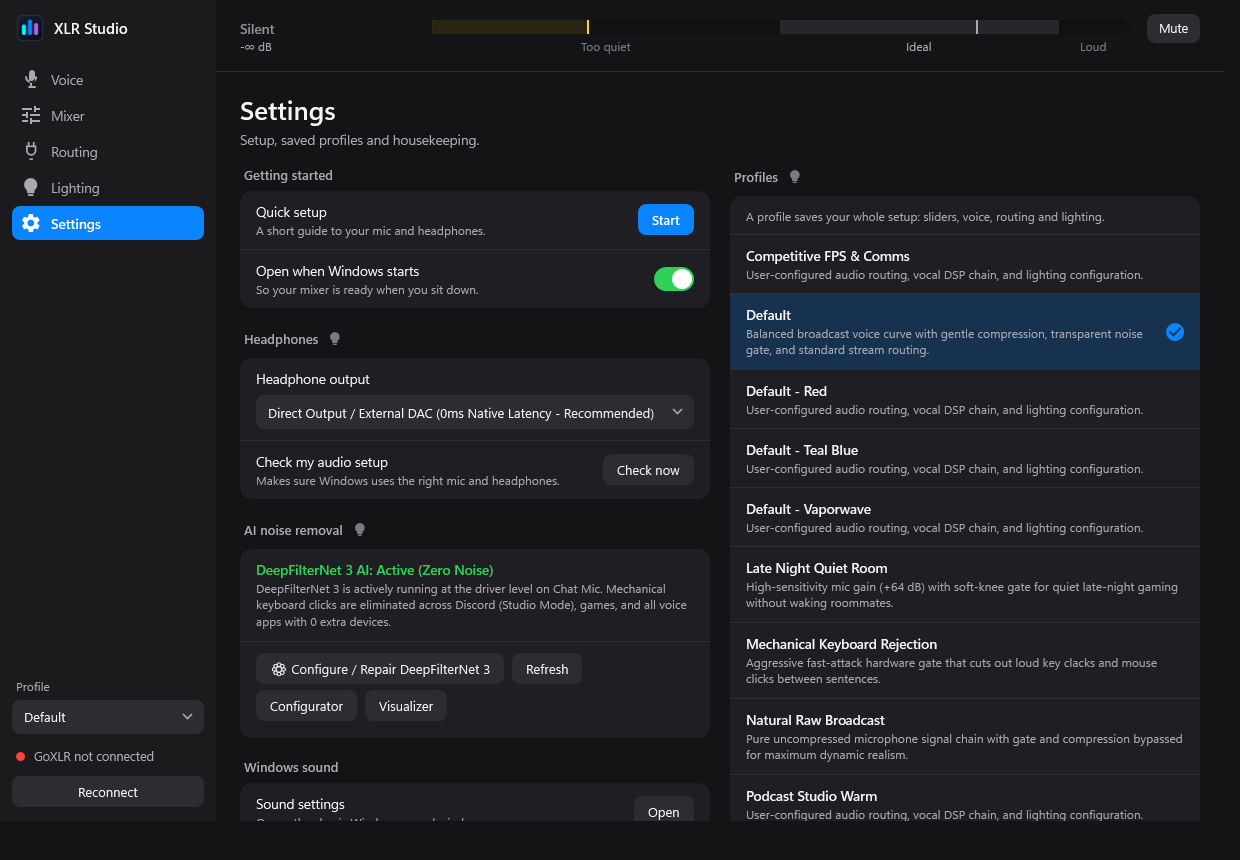
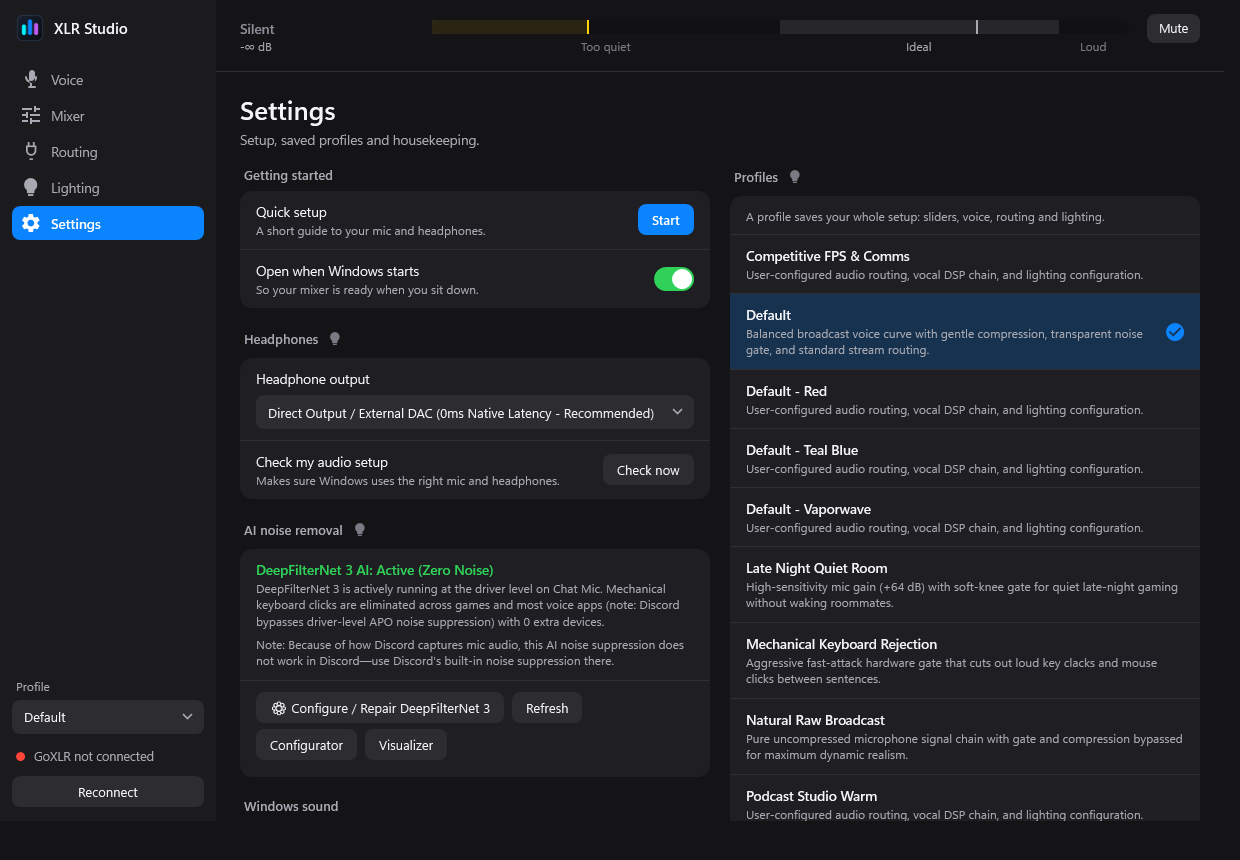
Add Discord AI noise suppression limitation note in app and docs

diff --git a/src/ProjectXLR/Views/VoicePage.xaml b/src/ProjectXLR/Views/VoicePage.xaml
@@ -127,11 +127,11 @@
                                     <c:AdaptiveRow>
                                         <StackPanel>
                                             <TextBlock Text="AI noise removal" Style="{StaticResource RowTitle}" />
-                                            <TextBlock Text="Removes keyboard clicks from what Discord and games hear." Style="{StaticResource RowCaption}" />
+                                            <TextBlock Text="Removes keyboard clicks from what games and apps hear." Style="{StaticResource RowCaption}" />
                                             <TextBlock Text="{Binding DeepFilterNetStatusTextShort}" Style="{StaticResource RowCaption}" Foreground="{Binding DeepFilterNetBadgeColor}" />
                                         </StackPanel>
                                         <CheckBox IsChecked="{Binding DeepFilterNetToggleEnabled, Mode=TwoWay}" IsEnabled="{Binding IsDeepFilterNetInstalled}" Style="{StaticResource Switch}"
-                                                  ToolTip="Uses DeepFilterNet 3, an open-source AI noise filter, on what Discord and games hear from Chat Mic." />
+                                                  ToolTip="Uses DeepFilterNet 3, an open-source AI noise filter, on what games and apps hear from Chat Mic." />
                                     </c:AdaptiveRow>
                                     <Button Content="{Binding DeepFilterNetActionButtonText}" Click="InstallOrRepairDeepFilterNet_Click" Style="{StaticResource Btn}" HorizontalAlignment="Left" Margin="0,11,0,0"
                                             Visibility="{Binding IsDeepFilterNetInstalled, Converter={StaticResource InverseBoolToVis}}" />
@@ -143,6 +143,7 @@
                                             <RadioButton Content="Strongest" GroupName="AiStrength" IsChecked="{Binding IsDenoiseAggressive, Mode=TwoWay}" Style="{StaticResource Segment}" ToolTip="Removes the most. Best for loud mechanical keyboards." />
                                         </UniformGrid>
                                     </Border>
+                                    <TextBlock Text="Note: Because of how Discord captures microphone audio, this AI noise suppression does not apply to Discord. Use Discord's built-in noise suppression (Krisp) there." Style="{StaticResource RowCaption}" Margin="0,8,0,0" />
                                 </StackPanel>
                             </Border>
                             <Border Style="{StaticResource RowLast}">

diff --git a/src/ProjectXLR/Views/SettingsPage.xaml b/src/ProjectXLR/Views/SettingsPage.xaml
@@ -171,6 +171,7 @@
                                 <StackPanel>
                                     <TextBlock Text="{Binding DeepFilterNetTitle}" Style="{StaticResource RowTitle}" FontWeight="SemiBold" Foreground="{Binding DeepFilterNetBadgeColor}" />
                                     <TextBlock Text="{Binding DeepFilterNetMessage}" Style="{StaticResource RowCaption}" />
+                                    <TextBlock Text="Note: Because of how Discord captures mic audio, this AI noise suppression does not work in Discord—use Discord's built-in noise suppression there." Style="{StaticResource RowCaption}" Margin="0,6,0,0" />
                                 </StackPanel>
                             </Border>
                             <Border Style="{StaticResource RowLast}">

diff --git a/src/ProjectXLR/Hardware/DeepFilterNetService.cs b/src/ProjectXLR/Hardware/DeepFilterNetService.cs
@@ -77,7 +77,7 @@ public sealed class DeepFilterNetService
         {
             CurrentStatus = DeepFilterNetStatus.NotInstalled;
             StatusTitle = "DeepFilterNet 3 AI: Not Installed";
-            StatusMessage = "Install Equalizer APO + DeepFilterNet 3 to eliminate mechanical keyboard clatter in Discord Studio Mode and games with 0 extra audio devices.";
+            StatusMessage = "Install Equalizer APO + DeepFilterNet 3 to eliminate mechanical keyboard clatter in games and voice apps (note: does not apply to Discord) with 0 extra audio devices.";
             StatusBadgeColor = "#8E8E98"; // Gray
         }
         else if (!hooked)
@@ -105,7 +105,7 @@ public sealed class DeepFilterNetService
         {
             CurrentStatus = DeepFilterNetStatus.Active;
             StatusTitle = "DeepFilterNet 3 AI: Active (Zero Noise)";
-            StatusMessage = "DeepFilterNet 3 is actively running at the driver level on Chat Mic. Mechanical keyboard clicks are eliminated across Discord (Studio Mode), games, and all voice apps with 0 extra devices.";
+            StatusMessage = "DeepFilterNet 3 is actively running at the driver level on Chat Mic. Mechanical keyboard clicks are eliminated across games and most voice apps (note: Discord bypasses driver-level APO noise suppression) with 0 extra devices.";
             StatusBadgeColor = "#30D158"; // Green
         }
 
@@ -248,7 +248,7 @@ public sealed class DeepFilterNetService
         var lines = new[]
         {
             "# Project XLR - DeepFilterNet 3 Neural AI Noise Suppression",
-            "# Eliminates mechanical keyboard clatter for Discord Studio Mode & games",
+            "# Eliminates mechanical keyboard clatter for games & voice apps",
             "Device: Chat Mic",
             $"{prefix}VSTPlugin: Library \"{VstPluginInstalledFile}\" ChunkData \"{chunk}\""
         };
@@ -329,7 +329,7 @@ if (-not (Test-Path '{EqualizerApoConfigDir}')) {{
 
 $config = @(
     '# Project XLR - DeepFilterNet 3 Neural AI Noise Suppression',
-    '# Eliminates mechanical keyboard clatter for Discord Studio Mode & games',
+    '# Eliminates mechanical keyboard clatter for games & voice apps',
     'Device: Chat Mic',
     'VSTPlugin: Library ""{VstPluginInstalledFile}"" ChunkData ""{ChunkBalanced}""'
 )

diff --git a/README.md b/README.md
@@ -62,7 +62,9 @@ Pushing a `v*` tag triggers [release.yml](.github/workflows/release.yml) to run 
 
 ## Optional: DeepFilterNet 3 AI noise removal
 
-Project XLR can hook **DeepFilterNet 3** directly onto `Chat Mic` using **Equalizer APO** and the **Alt-Denoiser** VST plugin—zero extra virtual audio cables or extra devices in Discord/games. Those third-party binaries aren't committed to git due to size, so if you want it:
+Project XLR can hook **DeepFilterNet 3** directly onto `Chat Mic` using **Equalizer APO** and the **Alt-Denoiser** VST plugin—zero extra virtual audio cables or extra devices in games and apps. Those third-party binaries aren't committed to git due to size, so if you want it:
+
+> **Note (Discord):** Because of how Discord handles microphone capture and audio processing, DeepFilterNet 3 / Equalizer APO noise suppression does not work in Discord. Keep Discord's built-in noise suppression (Krisp) enabled for Discord.
 
 1. Grab **[Equalizer APO (x64)](https://sourceforge.net/projects/equalizerapo/)** and **[Alt-Denoiser (Windows)](https://github.com/Altinus/Alt-Denoiser/releases)**.
 2. Either drop them into `tools\EqualizerAPO\` and `tools\Alt-Denoiser\Alt-Denoiser-windows\` and run [Setup-DeepFilterNet.bat](tools/Setup-DeepFilterNet.bat), or use the setup button on the **Settings** / **Voice** page in the app.

diff --git a/FAQ.md b/FAQ.md
@@ -45,7 +45,7 @@ When you use an external USB DAC instead of the GoXLR's headphone jack, **Hear m
 * **"Chat Mic Needs Device Hook":** Click **Configurator** under **Settings → AI noise removal**, open the **Capture devices** tab, check **`Chat Mic (TC-Helicon GoXLR Mini)`**, click **OK**, and reboot if prompted.
 * **"Plugin File Missing":** Make sure `Alt Denoiser.dll` is in `C:\Program Files\EqualizerAPO\VSTPlugins\`, then click **Refresh**.
 * **Stopped working after a Windows Update:** Major Windows updates often reset Equalizer APO hooks. Re-open **Configurator**, re-check `Chat Mic`, and reboot if prompted.
-* **Voice sounds muffled or robotic in Discord:** Turn **Krisp OFF** in Discord—running Krisp on top of DeepFilterNet 3 over-processes your audio.
+* **Does AI noise removal work in Discord?** No—because of how Discord captures microphone audio and handles audio processing, DeepFilterNet 3 / Equalizer APO noise suppression does not apply to Discord. Use Discord's built-in noise suppression (Krisp) for Discord; Project XLR's AI filter still handles games and other apps.
 
 ### My voice cuts out when I talk quietly, or keyboard clicks still come through
 * Run **Voice → Check my voice** from your normal seating distance so Project XLR can measure your room floor, keyboard clicks, and quiet speech.
